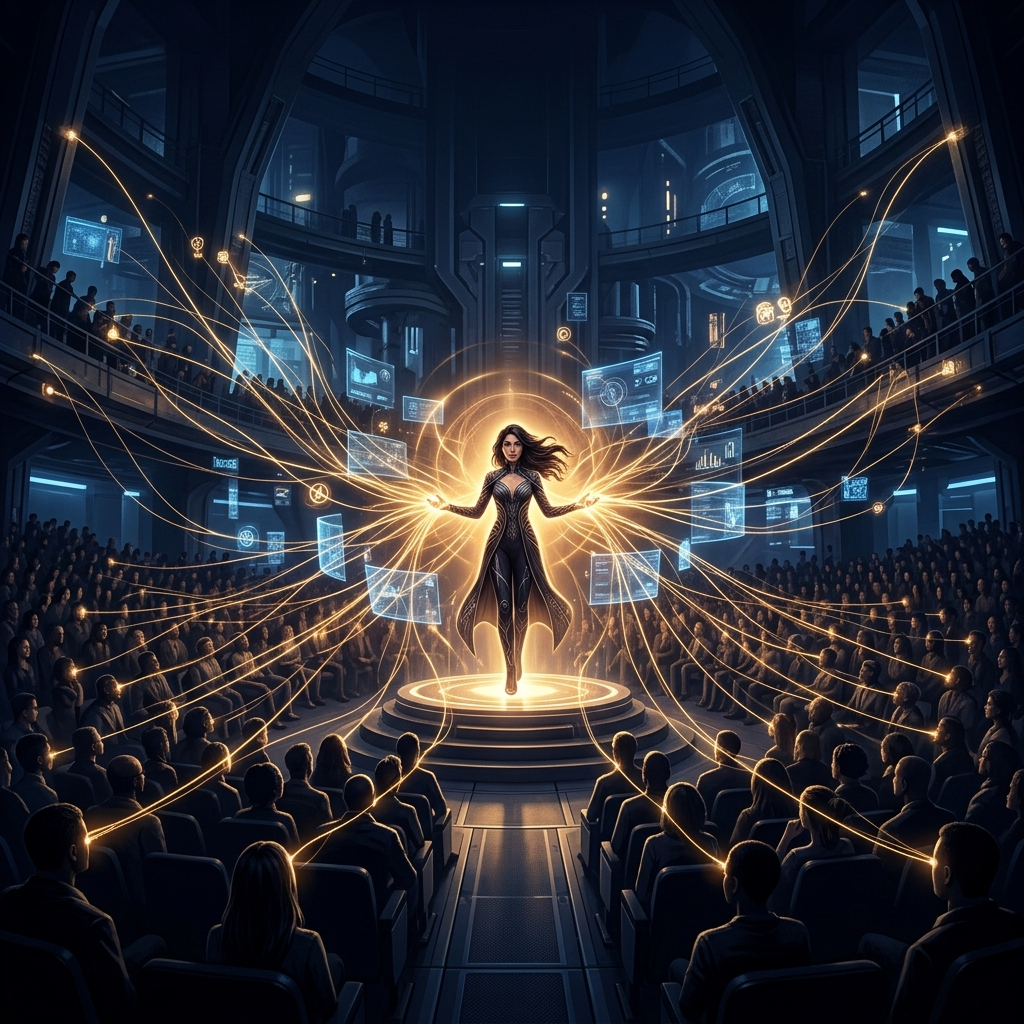
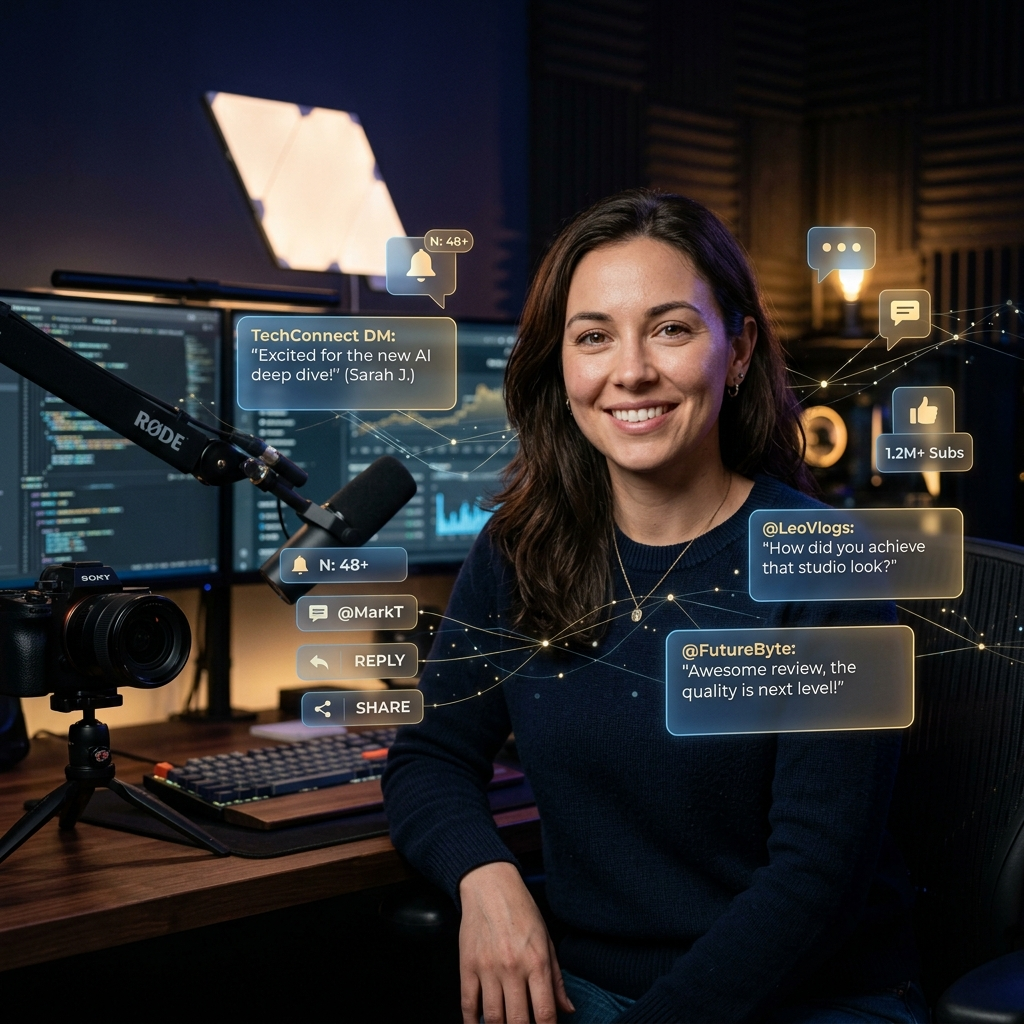
style(influencer): enhance card layout spacing, colors, and replace hero image with realistic tech creator portrait

diff --git a/style.css b/style.css
@@ -316,7 +316,7 @@ section { padding: 100px 0; }
   width: 100%;
   height: 100%;
   object-fit: cover;
-  object-position: center 30%;
+  object-position: center;
 }
 .inf-hero-overlay {
   position: absolute;
@@ -360,29 +360,31 @@ section { padding: 100px 0; }
   display: grid;
   grid-template-columns: repeat(4, 1fr);
   gap: 20px;
-  margin-top: -40px;
+  margin-top: 30px;
   position: relative;
   z-index: 2;
 }
 .inf-card {
-  background: rgba(255, 255, 255, 0.03);
-  border: 1px solid rgba(108, 92, 231, 0.1);
+  background: var(--bg-card);
+  border: 1px solid rgba(108, 92, 231, 0.08);
   border-radius: 16px;
-  padding: 28px 24px;
+  padding: 36px 28px;
   transition: all 0.4s ease;
+  box-shadow: 0 10px 30px rgba(108, 92, 231, 0.04);
 }
 .inf-card:hover {
-  transform: translateY(-4px);
+  transform: translateY(-6px);
   border-color: rgba(108, 92, 231, 0.25);
-  box-shadow: 0 12px 30px rgba(108, 92, 231, 0.08);
+  box-shadow: 0 16px 40px rgba(108, 92, 231, 0.1);
 }
 .inf-card-highlight {
-  border-color: rgba(240, 165, 0, 0.2);
-  background: linear-gradient(160deg, rgba(240, 165, 0, 0.04) 0%, rgba(108, 92, 231, 0.03) 100%);
+  border-color: rgba(240, 165, 0, 0.15);
+  background: linear-gradient(160deg, rgba(240, 165, 0, 0.03) 0%, var(--bg-card) 100%);
+  box-shadow: 0 10px 30px rgba(240, 165, 0, 0.03);
 }
 .inf-card-highlight:hover {
   border-color: rgba(240, 165, 0, 0.35);
-  box-shadow: 0 12px 30px rgba(240, 165, 0, 0.08);
+  box-shadow: 0 16px 40px rgba(240, 165, 0, 0.08);
 }
 .inf-card-icon {
   width: 40px;
